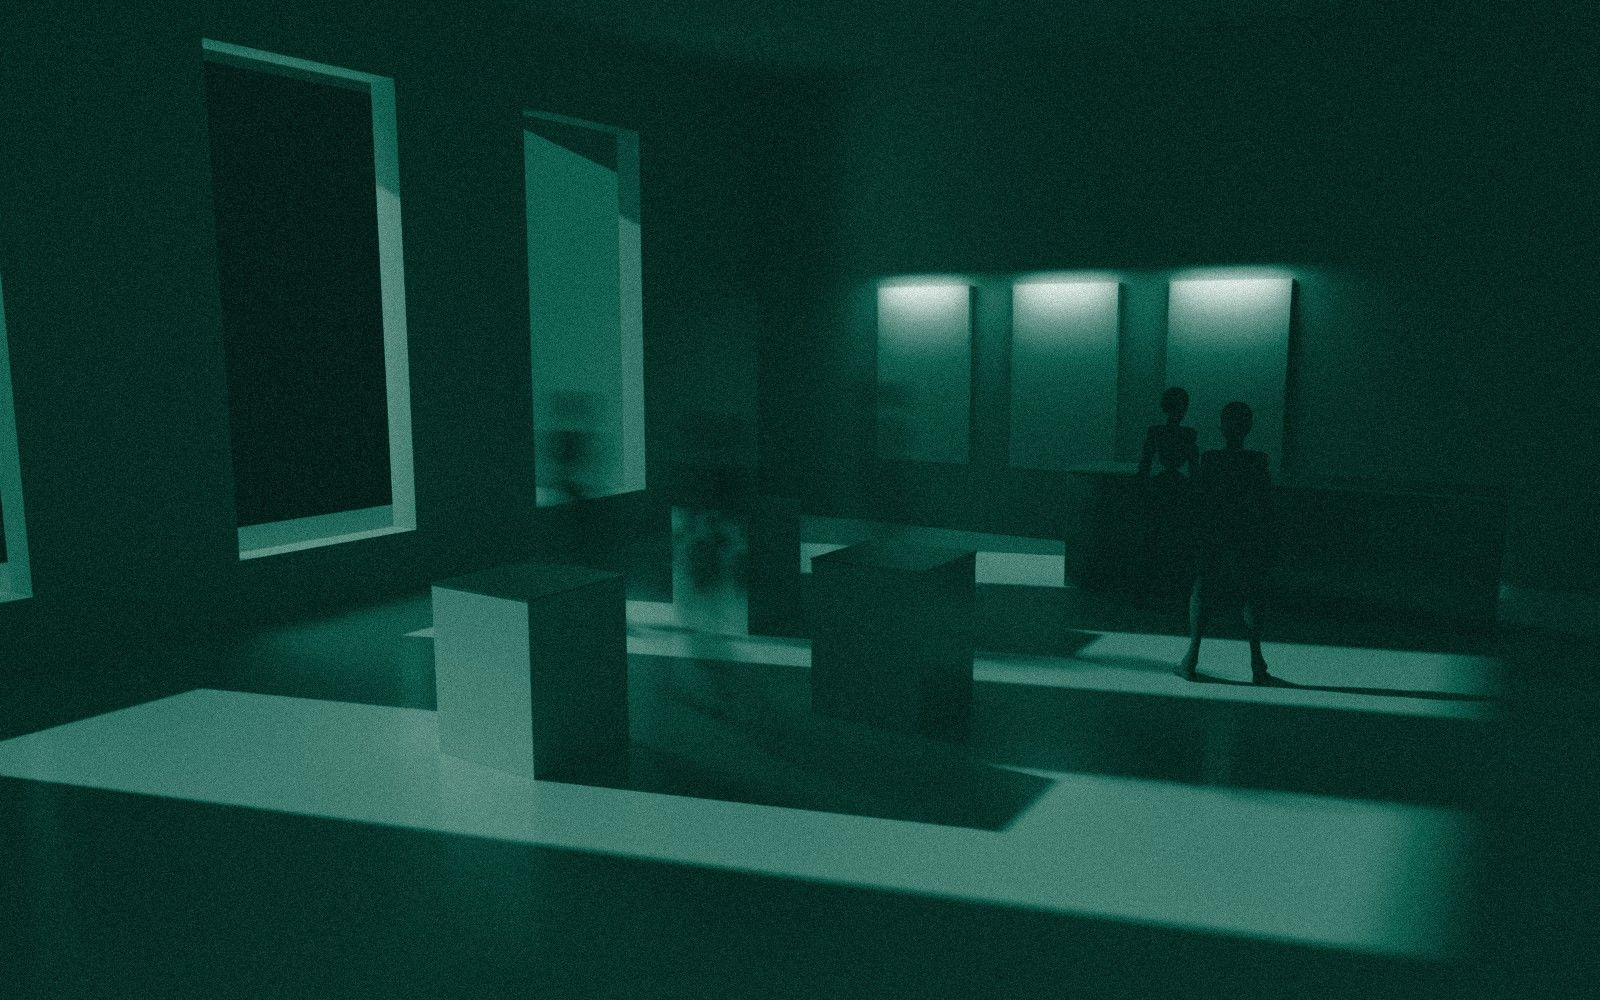
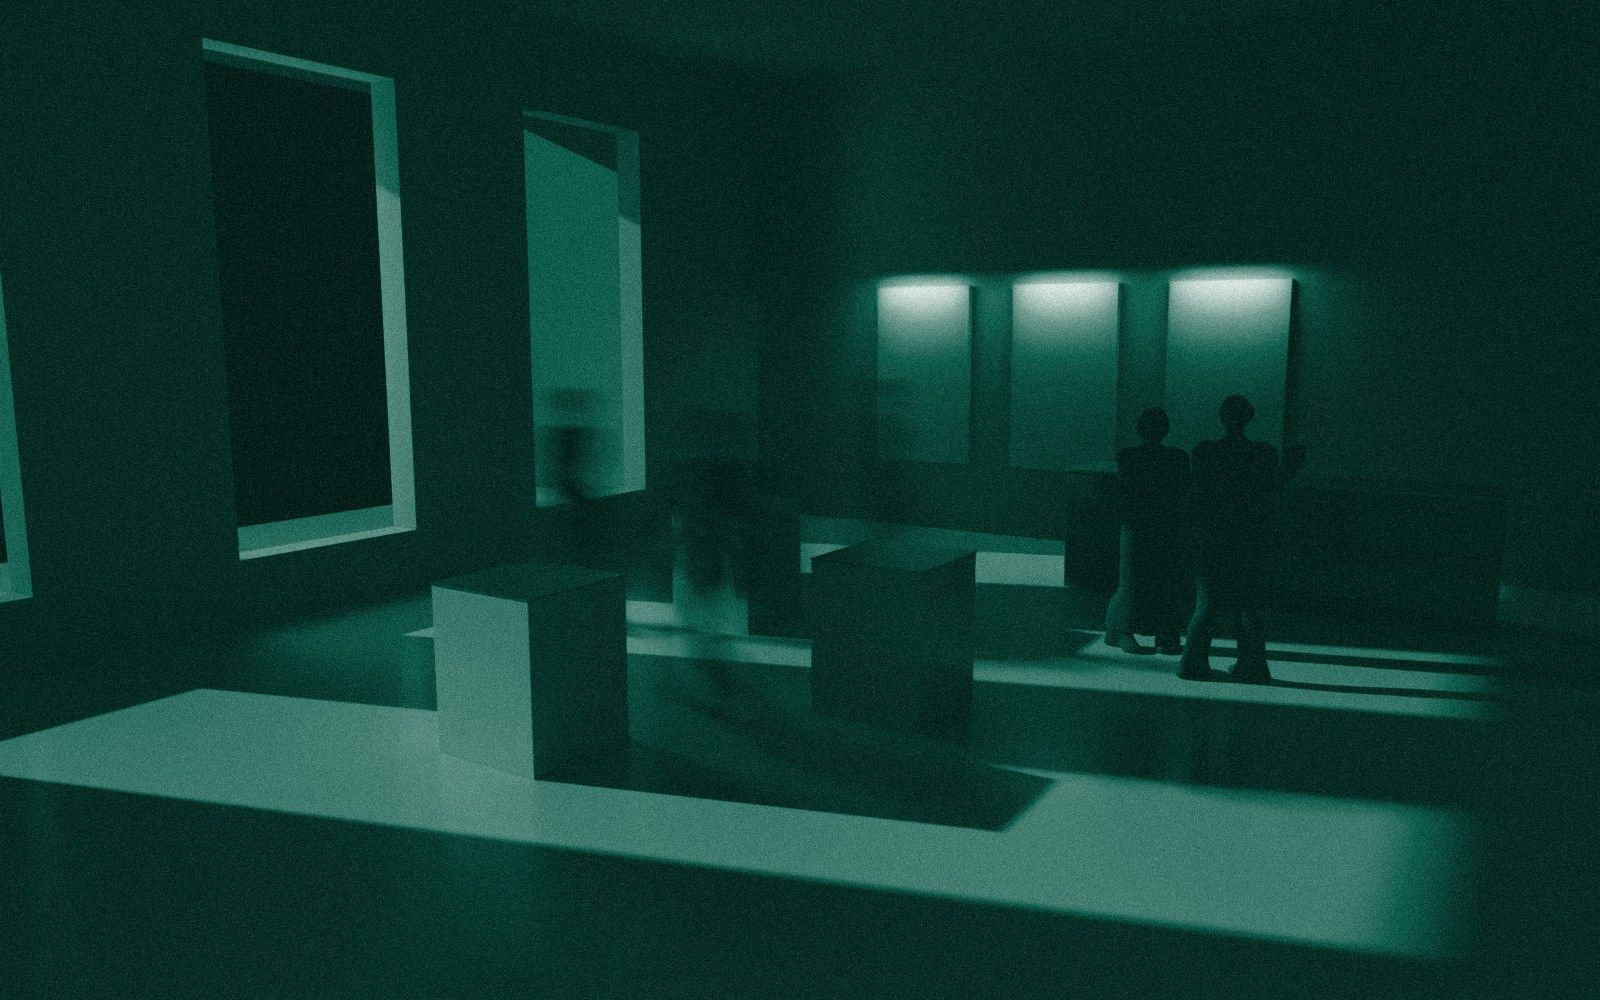
People dressed and in conversation; captions without 'rendered for TalentSupplier'
- In confidence, The Approach and The Floor re-rendered with tailored figures (suits, a long coat,
  hair) in natural, talking poses, built on the CC0 MakeHuman base mesh
- Image captions keep only their titles; footer line replaced

Claude-Session: https://claude.ai/code/session_01Ls1K6zc5qZk9mayAcS37Nh

Changed region(s): [[0.6875, 0.589, 0.9375, 0.713], [0.7188, 0.372, 0.75, 0.465], [0.4062, 0.496, 0.4375, 0.558]]

diff --git a/legal-notice.html b/legal-notice.html
@@ -70,7 +70,7 @@
     <h2 class="rv" id="owner">Site owner</h2><p>TalentSupplier, Madrid, Spain. Contact: <a class="link" href="&#109;&#97;&#105;&#108;&#116;&#111;&#58;&#105;&#110;&#102;&#111;&#64;&#116;&#97;&#108;&#101;&#110;&#116;&#115;&#117;&#112;&#112;&#108;&#105;&#101;&#114;&#46;&#101;&#117;">&#105;&#110;&#102;&#111;&#64;&#116;&#97;&#108;&#101;&#110;&#116;&#115;&#117;&#112;&#112;&#108;&#105;&#101;&#114;&#46;&#101;&#117;</a></p>
     <h2 class="rv" id="purpose">Purpose of this website</h2><p>This website presents TalentSupplier’s executive search services. It is not a job board, publishes no vacancies and does not take open applications.</p>
     <h2 class="rv" id="use">Terms of use</h2><p>By using this website you agree to these terms. You may browse and share it for information. Its content is general and does not form an offer or a contract; every mandate is governed by the terms agreed in writing with the client. You agree not to misuse the site, attempt to disrupt it or use automated means to collect its content.</p>
-    <h2 class="rv" id="ip">Intellectual property</h2><p>The content, branding, imagery (including every render on this site) and design of this website belong to TalentSupplier and may not be reproduced without written permission. Client names are mentioned with permission and remain the property of their owners.</p>
+    <h2 class="rv" id="ip">Intellectual property</h2><p>The content, branding, imagery and design of this website belong to TalentSupplier and may not be reproduced without written permission. Client names are mentioned with permission and remain the property of their owners.</p>
     <h2 class="rv" id="liability">Liability</h2><p>We take care to keep this website accurate and available, but cannot guarantee that it is free of errors or interruptions. To the extent the law allows, TalentSupplier is not liable for any loss arising from the use of this website.</p>
     <h2 class="rv" id="links">Links</h2><p>Links to other websites are provided for convenience. We are not responsible for their content or practices.</p>
     <h2 class="rv" id="law">Law and jurisdiction</h2><p>These terms are governed by Spanish law. Any dispute is subject to the courts of Madrid, without prejudice to any mandatory rights you may have as a consumer.</p>
@@ -102,7 +102,7 @@
   <a class="mail" href="&#109;&#97;&#105;&#108;&#116;&#111;&#58;&#105;&#110;&#102;&#111;&#64;&#116;&#97;&#108;&#101;&#110;&#116;&#115;&#117;&#112;&#112;&#108;&#105;&#101;&#114;&#46;&#101;&#117;">info<br>@talentsupplier.eu</a>
   <div class="meta">
     <nav aria-label="Footer"><a href="services.html">Services</a><a href="industries.html">Industries</a><a href="about.html">About</a><a href="journal.html">Insights</a><a href="contact.html">Contact</a><a href="privacy-policy.html">Privacy</a><a href="legal-notice.html">Legal and terms</a></nav>
-    <span>Every image on this site is rendered for TalentSupplier.</span>
+    <span>Executive search for luxury, fashion and premium retail</span>
     <span class="r">© 2026 TalentSupplier · Madrid</span>
   </div>
 </footer>

diff --git a/index.html b/index.html
@@ -251,7 +251,7 @@
       <p class="rv" style="--i:1">They are already running someone else’s flagship, market or region. They take calls, never adverts.</p>
     </div>
     <div class="b c-mint rv" style="--i:1"><strong>Few</strong><span>can lead your next flagship</span></div>
-    <figure class="c ph lift"><img src="assets/img/shopfront.jpg" width="1000" height="1250" alt="A lacquered shopfront at night, one display window lit" loading="lazy"><figcaption class="cap">After hours, rendered for TalentSupplier</figcaption></figure>
+    <figure class="c ph lift"><img src="assets/img/shopfront.jpg" width="1000" height="1250" alt="A lacquered shopfront at night, one display window lit" loading="lazy"><figcaption class="cap">After hours</figcaption></figure>
   </div>
   <div class="tiles-text wrap">
     <p class="k rv"><i aria-hidden="true"></i>Not a recruitment agency</p>
@@ -351,7 +351,7 @@
   <div class="grid">
     <h2 id="termsTitle" class="rv">Discretion is the service.</h2>
     <p class="lede rv" style="--i:1">A search for a house’s next leader is known to three people, until the day it is announced.</p>
-    <figure class="rv" style="--i:2"><div class="ph lift"><img src="assets/img/frosted.jpg" width="1100" height="1400" alt="Two people in conversation behind a frosted glass partition, impossible to identify" loading="lazy"></div><figcaption class="cap">In confidence, rendered for TalentSupplier</figcaption></figure>
+    <figure class="rv" style="--i:2"><div class="ph lift"><img src="assets/img/frosted.jpg" width="1100" height="1400" alt="Two people in conversation behind a frosted glass partition, impossible to identify" loading="lazy"></div><figcaption class="cap">In confidence</figcaption></figure>
     <dl>
       <div class="rv"><dt>Partner-led</dt><dd>The partner who takes your brief makes every approach and sits beside you at the offer. Nothing is handed down.</dd></div>
       <div class="rv" style="--i:1"><dt>Confidential by design</dt><dd>Client and candidate names travel only with consent, and only to the people who need them.</dd></div>
@@ -383,7 +383,7 @@
   <a class="mail" href="&#109;&#97;&#105;&#108;&#116;&#111;&#58;&#105;&#110;&#102;&#111;&#64;&#116;&#97;&#108;&#101;&#110;&#116;&#115;&#117;&#112;&#112;&#108;&#105;&#101;&#114;&#46;&#101;&#117;">info<br>@talentsupplier.eu</a>
   <div class="meta">
     <nav aria-label="Footer"><a href="services.html">Services</a><a href="industries.html">Industries</a><a href="about.html">About</a><a href="journal.html">Insights</a><a href="contact.html">Contact</a><a href="privacy-policy.html">Privacy</a><a href="legal-notice.html">Legal and terms</a></nav>
-    <span>Every image on this site is rendered for TalentSupplier.</span>
+    <span>Executive search for luxury, fashion and premium retail</span>
     <span class="r">© 2026 TalentSupplier · Madrid</span>
   </div>
 </footer>

diff --git a/about.html b/about.html
@@ -92,7 +92,7 @@
   <div class="low">
     <p>An independent boutique for luxury, fashion and premium retail, built on discretion and long relationships.</p>
     <div class="ph lift"><img src="assets/img/frosted.jpg" width="1100" height="1400" alt="Two people in conversation behind a frosted glass partition, impossible to identify"></div>
-    <p class="cap">In confidence, rendered for TalentSupplier</p>
+    <p class="cap">In confidence</p>
   </div>
 </section>
 
@@ -106,7 +106,7 @@
 </section>
 
 <section class="std wrap c-stone" data-c="stone" aria-labelledby="stdTitle">
-  <div class="sh"><h2 id="stdTitle" class="rv">Behind every search.</h2><figure class="rv" style="--i:1"><div class="ph lift"><img src="assets/img/map.jpg" width="1100" height="1400" alt="A city drawn at night from above, its luxury streets lit" loading="lazy"></div><figcaption class="cap">The market at night, rendered for TalentSupplier</figcaption></figure></div>
+  <div class="sh"><h2 id="stdTitle" class="rv">Behind every search.</h2><figure class="rv" style="--i:1"><div class="ph lift"><img src="assets/img/map.jpg" width="1100" height="1400" alt="A city drawn at night from above, its luxury streets lit" loading="lazy"></div><figcaption class="cap">The market at night</figcaption></figure></div>
   <dl>
     <div class="rv"><dt>Trust first</dt><dd>Clear, honest communication at every stage, including when the answer is not the one you hoped for.</dd></div>
     <div class="rv"><dt>Direct attention</dt><dd>A personal process shaped around each client and each mandate, never a template.</dd></div>
@@ -147,7 +147,7 @@
   <a class="mail" href="&#109;&#97;&#105;&#108;&#116;&#111;&#58;&#105;&#110;&#102;&#111;&#64;&#116;&#97;&#108;&#101;&#110;&#116;&#115;&#117;&#112;&#112;&#108;&#105;&#101;&#114;&#46;&#101;&#117;">info<br>@talentsupplier.eu</a>
   <div class="meta">
     <nav aria-label="Footer"><a href="services.html">Services</a><a href="industries.html">Industries</a><a href="about.html">About</a><a href="journal.html">Insights</a><a href="contact.html">Contact</a><a href="privacy-policy.html">Privacy</a><a href="legal-notice.html">Legal and terms</a></nav>
-    <span>Every image on this site is rendered for TalentSupplier.</span>
+    <span>Executive search for luxury, fashion and premium retail</span>
     <span class="r">© 2026 TalentSupplier · Madrid</span>
   </div>
 </footer>

diff --git a/industries.html b/industries.html
@@ -88,7 +88,7 @@
   <div class="low">
     <p>Deepest in luxury, fashion and premium retail. The same discipline travels into neighbouring sectors.</p>
     <div class="ph lift"><img src="assets/img/avenue.jpg" width="1600" height="900" alt="An avenue of boutiques at night, people walking past the lit windows"></div>
-    <p class="cap">The avenue, rendered for TalentSupplier</p>
+    <p class="cap">The avenue</p>
   </div>
 </section>
 
@@ -121,7 +121,7 @@
 </section>
 
 <section class="fluent wrap c-paper" data-c="paper" aria-labelledby="fluentTitle">
-  <figure class="rv"><div class="ph lift"><img src="assets/img/facade.jpg" width="2100" height="1400" alt="A boulevard facade at dusk, some windows lit" loading="lazy"></div><figcaption class="cap">Facade, rendered for TalentSupplier</figcaption></figure>
+  <figure class="rv"><div class="ph lift"><img src="assets/img/facade.jpg" width="2100" height="1400" alt="A boulevard facade at dusk, some windows lit" loading="lazy"></div><figcaption class="cap">Facade</figcaption></figure>
   <div class="t">
     <h2 id="fluentTitle" class="rv">Fluent in the sector.</h2>
     <p class="rv" style="--i:1">Commercial sense, brand understanding and the judgement to find people who can represent a brand.</p>
@@ -151,7 +151,7 @@
   <a class="mail" href="&#109;&#97;&#105;&#108;&#116;&#111;&#58;&#105;&#110;&#102;&#111;&#64;&#116;&#97;&#108;&#101;&#110;&#116;&#115;&#117;&#112;&#112;&#108;&#105;&#101;&#114;&#46;&#101;&#117;">info<br>@talentsupplier.eu</a>
   <div class="meta">
     <nav aria-label="Footer"><a href="services.html">Services</a><a href="industries.html">Industries</a><a href="about.html">About</a><a href="journal.html">Insights</a><a href="contact.html">Contact</a><a href="privacy-policy.html">Privacy</a><a href="legal-notice.html">Legal and terms</a></nav>
-    <span>Every image on this site is rendered for TalentSupplier.</span>
+    <span>Executive search for luxury, fashion and premium retail</span>
     <span class="r">© 2026 TalentSupplier · Madrid</span>
   </div>
 </footer>

diff --git a/services.html b/services.html
@@ -101,7 +101,7 @@
   <div class="low">
     <p>We map the leadership of a market and approach the few who fit, in confidence.</p>
     <div class="ph lift"><img src="assets/img/flagship.jpg" width="1600" height="900" alt="A flagship boutique at dawn, before opening, morning light across the stone floor"></div>
-    <p class="cap">The flagship at dawn, rendered for TalentSupplier</p>
+    <p class="cap">The flagship at dawn</p>
   </div>
 </section>
 
@@ -162,7 +162,7 @@
   <a class="mail" href="&#109;&#97;&#105;&#108;&#116;&#111;&#58;&#105;&#110;&#102;&#111;&#64;&#116;&#97;&#108;&#101;&#110;&#116;&#115;&#117;&#112;&#112;&#108;&#105;&#101;&#114;&#46;&#101;&#117;">info<br>@talentsupplier.eu</a>
   <div class="meta">
     <nav aria-label="Footer"><a href="services.html">Services</a><a href="industries.html">Industries</a><a href="about.html">About</a><a href="journal.html">Insights</a><a href="contact.html">Contact</a><a href="privacy-policy.html">Privacy</a><a href="legal-notice.html">Legal and terms</a></nav>
-    <span>Every image on this site is rendered for TalentSupplier.</span>
+    <span>Executive search for luxury, fashion and premium retail</span>
     <span class="r">© 2026 TalentSupplier · Madrid</span>
   </div>
 </footer>

diff --git a/journal.html b/journal.html
@@ -80,7 +80,7 @@
   <div class="low">
     <p>Three essays in preparation, each arguing one point of view on the people who lead luxury retail.</p>
     <div class="ph lift"><img src="assets/img/avenue.jpg" width="1600" height="900" alt="An avenue of boutiques at night, people walking past the lit windows"></div>
-    <p class="cap">The avenue, rendered for TalentSupplier</p>
+    <p class="cap">The avenue</p>
   </div>
 </section>
 
@@ -126,7 +126,7 @@
   <a class="mail" href="&#109;&#97;&#105;&#108;&#116;&#111;&#58;&#105;&#110;&#102;&#111;&#64;&#116;&#97;&#108;&#101;&#110;&#116;&#115;&#117;&#112;&#112;&#108;&#105;&#101;&#114;&#46;&#101;&#117;">info<br>@talentsupplier.eu</a>
   <div class="meta">
     <nav aria-label="Footer"><a href="services.html">Services</a><a href="industries.html">Industries</a><a href="about.html">About</a><a href="journal.html">Insights</a><a href="contact.html">Contact</a><a href="privacy-policy.html">Privacy</a><a href="legal-notice.html">Legal and terms</a></nav>
-    <span>Every image on this site is rendered for TalentSupplier.</span>
+    <span>Executive search for luxury, fashion and premium retail</span>
     <span class="r">© 2026 TalentSupplier · Madrid</span>
   </div>
 </footer>

diff --git a/404.html b/404.html
@@ -89,7 +89,7 @@
   <a class="mail" href="&#109;&#97;&#105;&#108;&#116;&#111;&#58;&#105;&#110;&#102;&#111;&#64;&#116;&#97;&#108;&#101;&#110;&#116;&#115;&#117;&#112;&#112;&#108;&#105;&#101;&#114;&#46;&#101;&#117;">info<br>@talentsupplier.eu</a>
   <div class="meta">
     <nav aria-label="Footer"><a href="/services.html">Services</a><a href="/industries.html">Industries</a><a href="/about.html">About</a><a href="/journal.html">Insights</a><a href="/contact.html">Contact</a><a href="/privacy-policy.html">Privacy</a><a href="/legal-notice.html">Legal and terms</a></nav>
-    <span>Every image on this site is rendered for TalentSupplier.</span>
+    <span>Executive search for luxury, fashion and premium retail</span>
     <span class="r">© 2026 TalentSupplier · Madrid</span>
   </div>
 </footer>

diff --git a/contact.html b/contact.html
@@ -159,7 +159,7 @@
   <a class="mail" href="&#109;&#97;&#105;&#108;&#116;&#111;&#58;&#105;&#110;&#102;&#111;&#64;&#116;&#97;&#108;&#101;&#110;&#116;&#115;&#117;&#112;&#112;&#108;&#105;&#101;&#114;&#46;&#101;&#117;">info<br>@talentsupplier.eu</a>
   <div class="meta">
     <nav aria-label="Footer"><a href="services.html">Services</a><a href="industries.html">Industries</a><a href="about.html">About</a><a href="journal.html">Insights</a><a href="contact.html">Contact</a><a href="privacy-policy.html">Privacy</a><a href="legal-notice.html">Legal and terms</a></nav>
-    <span>Every image on this site is rendered for TalentSupplier.</span>
+    <span>Executive search for luxury, fashion and premium retail</span>
     <span class="r">© 2026 TalentSupplier · Madrid</span>
   </div>
 </footer>

diff --git a/privacy-policy.html b/privacy-policy.html
@@ -103,7 +103,7 @@
   <a class="mail" href="&#109;&#97;&#105;&#108;&#116;&#111;&#58;&#105;&#110;&#102;&#111;&#64;&#116;&#97;&#108;&#101;&#110;&#116;&#115;&#117;&#112;&#112;&#108;&#105;&#101;&#114;&#46;&#101;&#117;">info<br>@talentsupplier.eu</a>
   <div class="meta">
     <nav aria-label="Footer"><a href="services.html">Services</a><a href="industries.html">Industries</a><a href="about.html">About</a><a href="journal.html">Insights</a><a href="contact.html">Contact</a><a href="privacy-policy.html">Privacy</a><a href="legal-notice.html">Legal and terms</a></nav>
-    <span>Every image on this site is rendered for TalentSupplier.</span>
+    <span>Executive search for luxury, fashion and premium retail</span>
     <span class="r">© 2026 TalentSupplier · Madrid</span>
   </div>
 </footer>
